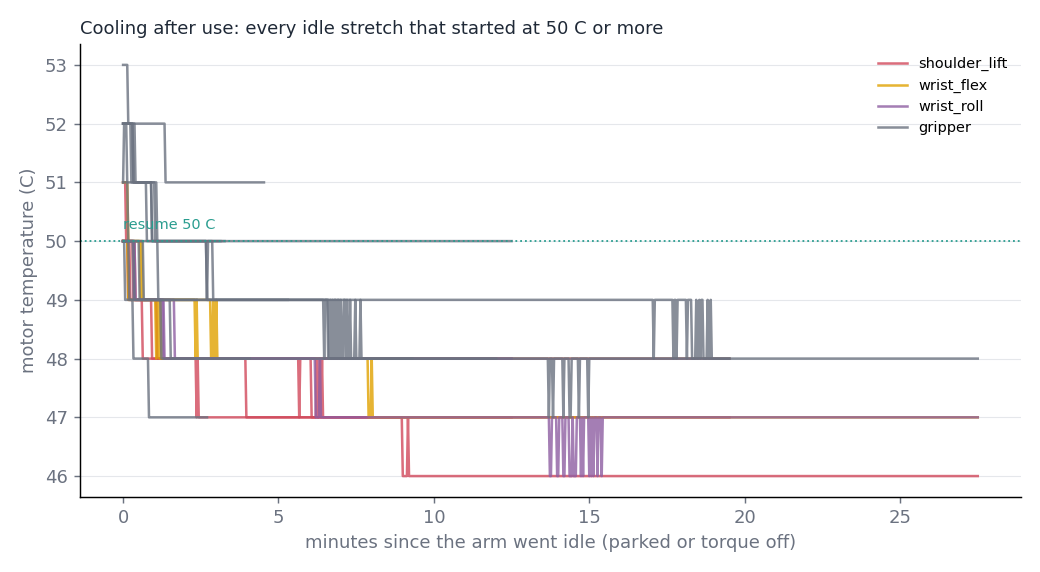
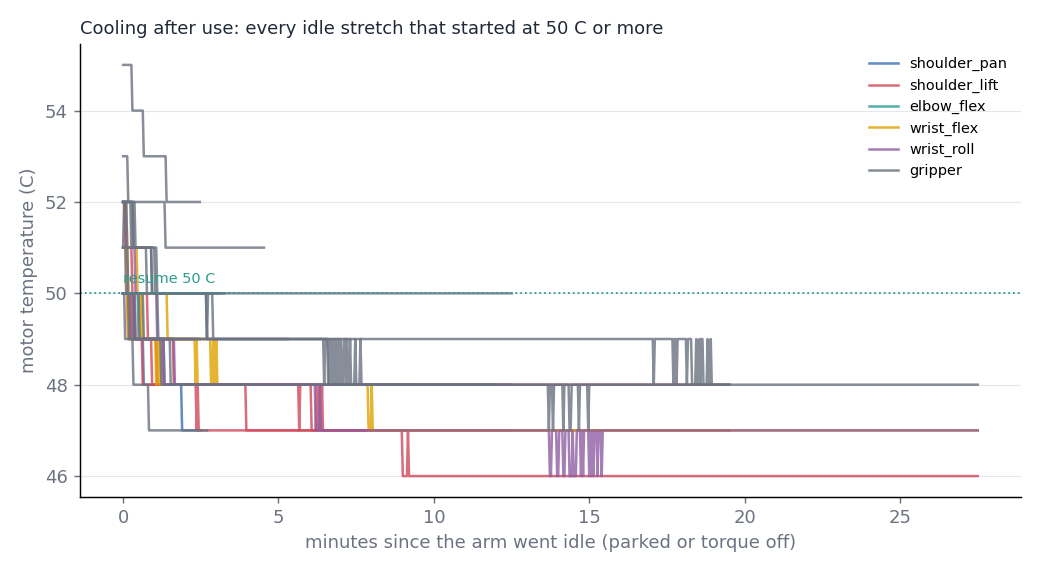
data: refresh 04:49 (70909 events, 4511 simulated tries; still no real handoffs)

diff --git a/docs/DATA.md b/docs/DATA.md
@@ -1,30 +1,30 @@
 # Data: what MongoDB says
 
-Read 2026-10-18 04:19 from `MongoDB Atlas, database scrub`. Regenerate with `.venv/bin/python -m explore.analysis`. Machine-readable copy: `data/analysis.json` (committed snapshot `docs/media/data/analysis.json`). Read-only: nothing here edits MongoDB.
+Read 2026-10-18 04:49 from `MongoDB Atlas, database scrub`. Regenerate with `.venv/bin/python -m explore.analysis`. Machine-readable copy: `data/analysis.json` (committed snapshot `docs/media/data/analysis.json`). Read-only: nothing here edits MongoDB.
 
-- 69640 events, 18 episodes (0.10 h recorded), 10131 thermal rows
-- Events by arm: fake 51789, pretag 17429, real 422. Tags (`fake_arm`) started 2026-10-17 22:02; earlier rows are test data (`pretag`).
+- 70909 events, 18 episodes (0.10 h recorded), 10351 thermal rows
+- Events by arm: fake 52021, pretag 17495, real 422, sim 971. Tags (`fake_arm`) started 2026-10-17 22:02; earlier rows are test data (`pretag`).
 
 ## Pitch and Devpost numbers
 
 | Number | Value | Query | Read |
 | --- | --- | --- | --- |
-| Episodes recorded (MongoDB) | 18 | `db.episodes.countDocuments({})` | 2026-10-18 04:19 |
-| Hours of demonstrations recorded | 0.10 | `db.episodes.aggregate([{$group:{_id:null,s:{$sum:"$duration_s"}}}])` | 2026-10-18 04:19 |
-| Episodes usable for training | 10 of 18 | `db.episodes.find({}, {episode_index:1, task:1, duration_s:1, handoff:1})` | 2026-10-18 04:19 |
-| Episodes with a handoff outcome | 7 | `db.episodes.countDocuments({handoff: {$ne: null}})` | 2026-10-18 04:19 |
-| Real handoff success rate | no real data yet | `db.events.countDocuments({type:"handed", fake_arm:false})` | 2026-10-18 04:19 |
-| Real median request-to-hand (s) | no real data yet | `db.events.find({type:"handed", fake_arm:false}, {request_to_hand_s:1})` | 2026-10-18 04:19 |
-| Simulated handoff tries | 4423 | `db.events.countDocuments({type:"command", action:"handover", accepted:true, fake_arm:true})` | 2026-10-18 04:19 |
-| Hottest motor and peak | gripper 56 C | `db.thermal.aggregate([{$match:{kind:'sample'}},{$project:{m:{$objectToArray:'$motors'}}},{$unwind:'$m'},{$group:{_id:'$m.k',peak:{$max:'$m.v.temp'}}},{$sort:{peak:-1}},{$limit:1}])` | 2026-10-18 04:19 |
-| Thermal samples | 8605 | `db.thermal.countDocuments({kind:'sample'})` | 2026-10-18 04:19 |
-| Max safe hold time | 291 s | `db.thermal.find({kind:'experiment',phase:'torque_on_hold'},{t:1,session:1,elapsed_s:1,temps:1}).sort({session:1,elapsed_s:1})` | 2026-10-18 04:19 |
-| Reads logged | 177 | `db.events.countDocuments({type:"read"})` | 2026-10-18 04:19 |
-| count_sheet OCR accuracy | 0/32 correct (0%), 32 unscored, item fields 33% of 96 | `db.events.find({type:"read","read.kind":"count_sheet"})` | 2026-10-18 04:19 |
-| tray_tag OCR accuracy | 36/63 correct (57%), 0 unscored | `db.events.find({type:"read","read.kind":"tray_tag"})` | 2026-10-18 04:19 |
-| pack_label OCR accuracy | no real data yet | `db.events.find({type:"read","read.kind":"pack_label"})` | 2026-10-18 04:19 |
-| Median read latency | 1800 ms | `db.events.find({type:"read"},{"read.latency_ms":1})` | 2026-10-18 04:19 |
-| Perceptron vs Gemini | Perceptron 82/89 answered, median 1800 ms; Gemini 10/17 answered, median 770 ms; 0 rescues | `db.events.find({type:"read","read.attempts":{$exists:true}},{"read.attempts":1})` | 2026-10-18 04:19 |
+| Episodes recorded (MongoDB) | 18 | `db.episodes.countDocuments({})` | 2026-10-18 04:49 |
+| Hours of demonstrations recorded | 0.10 | `db.episodes.aggregate([{$group:{_id:null,s:{$sum:"$duration_s"}}}])` | 2026-10-18 04:49 |
+| Episodes usable for training | 10 of 18 | `db.episodes.find({}, {episode_index:1, task:1, duration_s:1, handoff:1})` | 2026-10-18 04:49 |
+| Episodes with a handoff outcome | 7 | `db.episodes.countDocuments({handoff: {$ne: null}})` | 2026-10-18 04:49 |
+| Real handoff success rate | no real data yet | `db.events.countDocuments({type:"handed", fake_arm:false})` | 2026-10-18 04:49 |
+| Real median request-to-hand (s) | no real data yet | `db.events.find({type:"handed", fake_arm:false}, {request_to_hand_s:1})` | 2026-10-18 04:49 |
+| Simulated handoff tries | 4511 | `db.events.countDocuments({type:"command", action:"handover", accepted:true, fake_arm:true})` | 2026-10-18 04:49 |
+| Hottest motor and peak | gripper 56 C | `db.thermal.aggregate([{$match:{kind:'sample'}},{$project:{m:{$objectToArray:'$motors'}}},{$unwind:'$m'},{$group:{_id:'$m.k',peak:{$max:'$m.v.temp'}}},{$sort:{peak:-1}},{$limit:1}])` | 2026-10-18 04:49 |
+| Thermal samples | 8748 | `db.thermal.countDocuments({kind:'sample'})` | 2026-10-18 04:49 |
+| Max safe hold time | 291 s | `db.thermal.find({kind:'experiment',phase:'torque_on_hold'},{t:1,session:1,elapsed_s:1,temps:1}).sort({session:1,elapsed_s:1})` | 2026-10-18 04:49 |
+| Reads logged | 177 | `db.events.countDocuments({type:"read"})` | 2026-10-18 04:49 |
+| count_sheet OCR accuracy | 0/32 correct (0%), 32 unscored, item fields 33% of 96 | `db.events.find({type:"read","read.kind":"count_sheet"})` | 2026-10-18 04:49 |
+| tray_tag OCR accuracy | 36/63 correct (57%), 0 unscored | `db.events.find({type:"read","read.kind":"tray_tag"})` | 2026-10-18 04:49 |
+| pack_label OCR accuracy | no real data yet | `db.events.find({type:"read","read.kind":"pack_label"})` | 2026-10-18 04:49 |
+| Median read latency | 1800 ms | `db.events.find({type:"read"},{"read.latency_ms":1})` | 2026-10-18 04:49 |
+| Perceptron vs Gemini | Perceptron 82/89 answered, median 1800 ms; Gemini 10/17 answered, median 770 ms; 0 rescues | `db.events.find({type:"read","read.attempts":{$exists:true}},{"read.attempts":1})` | 2026-10-18 04:49 |
 
 ## Training data: episodes
 
@@ -205,21 +205,21 @@ Do not quote these as real results. The pitch says "no real data yet".
 
 - none
 
-### Simulation (fake and sim arms, never real): 51789 rows, 4423 tries
+### Simulation (fake and sim arms, never real): 52992 rows, 4511 tries
 
 | item | lighting | skill | tries | ok | rate | 95% range | median s | p90 s | retries | misses | stops |
 | --- | --- | --- | ---: | ---: | ---: | --- | ---: | ---: | ---: | ---: | ---: |
 | hemostat | bright | model | 2 | 2 | 100% | 34-100% | 0.81 | 0.82 | 0 | 0 | 0 |
 | hemostat | dim | model | 6 | 6 | 100% | 61-100% | 3.11 | 4.54 | 0 | 0 | 0 |
 | hemostat | dim | none | 3 | 3 | 100% | 44-100% | 2.14 | 4.08 | 0 | 0 | 0 |
-| hemostat | normal | model | 2110 | 1548 | 73% | 71-75% | 0.41 | 0.65 | 128 | 291 | 309 |
+| hemostat | normal | model | 2142 | 1579 | 74% | 72-76% | 0.41 | 0.80 | 128 | 291 | 311 |
 | hemostat | normal | none | 1757 | 1025 | 58% | 56-61% | 0.43 | 0.44 | 128 | 288 | 292 |
 | hemostat | normal | taught | 30 | 30 | 100% | 89-100% | 0.41 | 0.42 | 0 | 0 | 0 |
 | hex_key | normal | model | 30 | 30 | 100% | 89-100% | 0.41 | 0.42 | 0 | 0 | 0 |
 | hex_key | normal | none | 32 | 32 | 100% | 89-100% | 0.42 | 0.44 | 0 | 0 | 0 |
-| mayo_scissors | normal | model | 66 | 65 | 98% | 92-100% | 5.93 | 6.29 | 0 | 0 | 1 |
+| mayo_scissors | normal | model | 93 | 89 | 96% | 89-98% | 6.15 | 6.32 | 1 | 1 | 2 |
 | mayo_scissors | normal | none | 158 | 32 | 20% | 15-27% | 0.42 | 0.44 | 0 | 0 | 0 |
-| scalpel | normal | model | 132 | 100 | 76% | 68-82% | 0.31 | 7.85 | 0 | 0 | 0 |
+| scalpel | normal | model | 161 | 128 | 80% | 73-85% | 0.46 | 7.99 | 0 | 0 | 1 |
 | scalpel | normal | none | 97 | 64 | 66% | 56-75% | 0.32 | 0.33 | 0 | 0 | 0 |
 
 ### Simulation miss reasons
@@ -228,6 +228,7 @@ Do not quote these as real results. The pitch says "no real data yet".
 - checking: I couldn't pick the hemostat.: 192
 - finding: I don't see the hemostat on the tray.: 67
 - moving_to_hand: That's out of my reach.: 64
+- checking: Missed the mayo scissors, trying again.: 1
 
 ![Simulation handoff success](media/data/handoffs_sim.png)
 
@@ -241,18 +242,18 @@ Phase grouping: idle = parked, off, preview, killed and the idle monitor (arm no
 
 | Motor | Idle C | Moving C | Holding C | Peak C | Hold rise C/min | Min from idle to guard (hold) | Cool C/min |
 | --- | --- | --- | --- | --- | --- | --- | --- |
-| shoulder_pan | 46.0 | 48.0 | 50.0 | 51 | 1.03 | 13.6 | 1.28 |
-| shoulder_lift | 47.0 | 49.0 | 52.5 | 53 | 1.07 | 12.2 | 0.73 |
-| elbow_flex | 46.0 | 48.0 | 50.0 | 53 | 0.84 | 16.6 | 1.00 |
-| wrist_flex | 48.0 | 49.0 | 52.0 | 53 | 0.95 | 12.6 | 0.53 |
-| wrist_roll | 48.0 | 50.0 | 52.0 | 53 | 0.98 | 12.2 | 0.56 |
-| gripper | 49.0 | 52.0 | 54.0 | 56 | 1.13 | 9.7 | 0.68 |
+| shoulder_pan | 46.0 | 48.0 | 50.0 | 51 | 1.03 | 13.6 | 1.26 |
+| shoulder_lift | 47.0 | 49.0 | 52.5 | 53 | 1.07 | 12.2 | 0.76 |
+| elbow_flex | 46.0 | 48.0 | 50.0 | 53 | 0.84 | 16.6 | 1.01 |
+| wrist_flex | 48.0 | 49.0 | 52.0 | 53 | 0.95 | 12.6 | 0.55 |
+| wrist_roll | 48.0 | 50.0 | 52.0 | 53 | 0.98 | 12.2 | 0.58 |
+| gripper | 49.0 | 52.0 | 54.0 | 56 | 1.13 | 9.7 | 0.70 |
 
 Medians per phase group; the hold rate is a least-squares fit over the hold experiment (stretches of 60 s or more), the cool rate over the first 5 min of idle stretches that began at 49 C or more and fell at least 1 C. `n/a` means no usable stretch.
 
 ### Cooling
 
-Median fall 0.70 C/min over 95 motor-stretches; 60 C to 50 C would take about 14 min at that rate (linear extrapolation: the data never went above 55 C, and real cooling slows near the ambient floor).
+Median fall 0.73 C/min over 101 motor-stretches; 60 C to 50 C would take about 14 min at that rate (linear extrapolation: the data never went above 55 C, and real cooling slows near the ambient floor).
 
 ### Sessions
 
@@ -262,8 +263,8 @@ Median fall 0.70 C/min over 95 motor-stretches; 60 C to 50 C would take about 14
 | 20261018-013938-6072 | station | station | 36.4 | 2.5 | 49 | 53 (gripper) | 51.0 |
 | 20261018-025804-b097 | station | station | 12.8 | 0.9 | 50 | 50 (gripper) | 49.0 |
 | 20261018-034137-5acd | station | station | 12.8 | 0.3 | 51 | 52 (gripper) | 51.0 |
+| 20261018-040946-e7b6 | station | station | 12.2 | 3.2 | 52 | 56 (gripper) | 55.0 |
 | 20261018-000148-a7f0 | arm_session |  | 9.3 | 9.2 | 42 | 55 (gripper) | 53.0 |
-| 20261018-040946-e7b6 | station | station | 9.1 | 2.7 | 52 | 56 (gripper) | 54.0 |
 | 20261018-040006-a0e0 | station | station | 6.0 | 2.1 | 51 | 55 (gripper) | 54.0 |
 | 20261018-031155-b52b | station | station | 5.9 | 0.2 | 49 | 50 (gripper) | 49.0 |
 
@@ -273,7 +274,7 @@ Gripper temperature at grasp start, by gripper `torque_limit`:
 
 | torque_limit | Grasps | Median C | Max C | Median |load| |
 | --- | --- | --- | --- | --- |
-| 350 | 206 | 51.0 | 56 | 322 |
+| 350 | 220 | 51.0 | 56 | 322 |
 
 Session settings that were the same in every session (so they cannot explain any difference): COOL_RESUME=50, COOL_TRIP=60, DEADBAND_DEG=0.4, EASE_DEG_S=45.0, GAP_DEG=25.0, GENTLE_ACCEL=40, GENTLE_SPEED=1200, GRIP_SQUEEZE=1.5, JOINT_LOAD_MAX=250. None of them varied.
 Register snapshot: acceleration [40, 254], torque_limit [500, 1000], goal_velocity [0, 1200], max_temperature_limit [70], overload_torque [25, 80].
@@ -283,7 +284,7 @@ Register snapshot: acceleration [40, 254], torque_limit [500, 1000], goal_veloci
 - gripper is the hottest motor: peak 56 C against a 60 C guard and a 70 C firmware limit. Nothing in the data reached the guard (hot events: 0).
 - With torque on and no motion, gripper warms fastest: 1.13 C/min. Holding is not free; every motor warms with torque on.
 - Plan for at most 291 s of continuous hold per pass (half of the 582 s the gripper needs from idle to the 60 C guard); then torque off or park.
-- Park or torque off between passes: motors fall about 0.70 C/min (median), so 60 C to 50 C takes about 14 min.
+- Park or torque off between passes: motors fall about 0.73 C/min (median), so 60 C to 50 C takes about 14 min.
 - gripper and wrist_flex idle warmest (49 and 48 C against 46 C for elbow_flex): their idle temperature is not a fault, only their rise is.
 - No guard trips were recorded, so the guard values are untested on this data; keep COOL_TRIP at 60.
 

diff --git a/team/NOTES-DATA.md b/team/NOTES-DATA.md
@@ -1,6 +1,6 @@
 # Notes from the data chat (D)
 
-Read 2026-10-18 04:19. Source of every number: `docs/DATA.md`, regenerated by `.venv/bin/python -m explore.analysis`.
+Read 2026-10-18 04:49. Source of every number: `docs/DATA.md`, regenerated by `.venv/bin/python -m explore.analysis`.
 
 ## Training data: episodes
 
@@ -29,13 +29,13 @@ Method ranking per item, by Wilson lower bound (real-tagged):
 
 Same ranking from simulation (not real, shows the shape only):
 - hemostat / taught: 100% of 30, Wilson low 89%
-- hemostat / model: 73% of 2118, Wilson low 72%
+- hemostat / model: 74% of 2150, Wilson low 72%
 - hemostat / none: 58% of 1760, Wilson low 56%
 - hex_key / none: 100% of 32, Wilson low 89%
 - hex_key / model: 100% of 30, Wilson low 89%
-- mayo_scissors / model: 98% of 66, Wilson low 92%
+- mayo_scissors / model: 96% of 93, Wilson low 89%
 - mayo_scissors / none: 20% of 158, Wilson low 15%
-- scalpel / model: 76% of 132, Wilson low 68%
+- scalpel / model: 80% of 161, Wilson low 73%
 - scalpel / none: 66% of 97, Wilson low 56%
 
 Picker default: with fewer than 10 trusted real tries per method on an item, or when the real data is not trusted (now), use `model` for every item (the controller's --skills default) and fall back to `taught` only where model has missed. Do not pick a method from a rate whose range is wide.
@@ -47,7 +47,7 @@ For the training chat (A) and the smart-pick chat (C):
 - gripper is the hottest motor: peak 56 C against a 60 C guard and a 70 C firmware limit. Nothing in the data reached the guard (hot events: 0).
 - With torque on and no motion, gripper warms fastest: 1.13 C/min. Holding is not free; every motor warms with torque on.
 - Plan for at most 291 s of continuous hold per pass (half of the 582 s the gripper needs from idle to the 60 C guard); then torque off or park.
-- Park or torque off between passes: motors fall about 0.70 C/min (median), so 60 C to 50 C takes about 14 min.
+- Park or torque off between passes: motors fall about 0.73 C/min (median), so 60 C to 50 C takes about 14 min.
 - gripper and wrist_flex idle warmest (49 and 48 C against 46 C for elbow_flex): their idle temperature is not a fault, only their rise is.
 - No guard trips were recorded, so the guard values are untested on this data; keep COOL_TRIP at 60.
 - Settings that were tried: only the gripper torque_limit changed (150, 350, 500); every arm session ran the same acceleration/speed settings, so those are untested for heat. If you change them, log a `session` row with `settings` so this report can compare.
